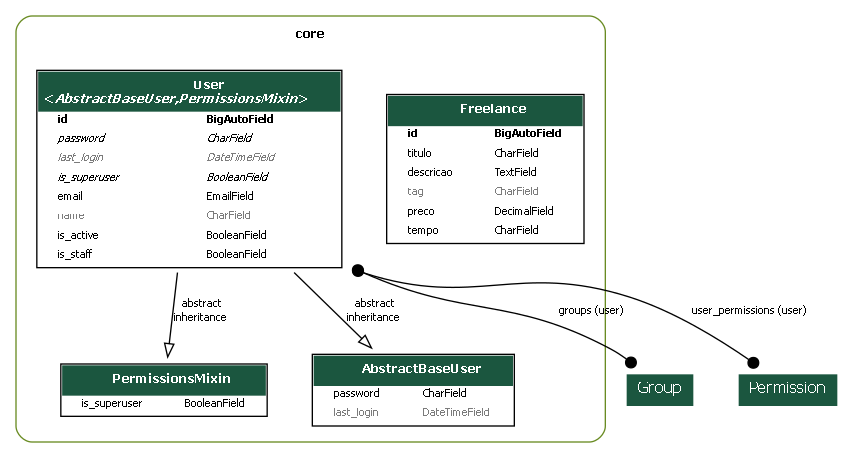
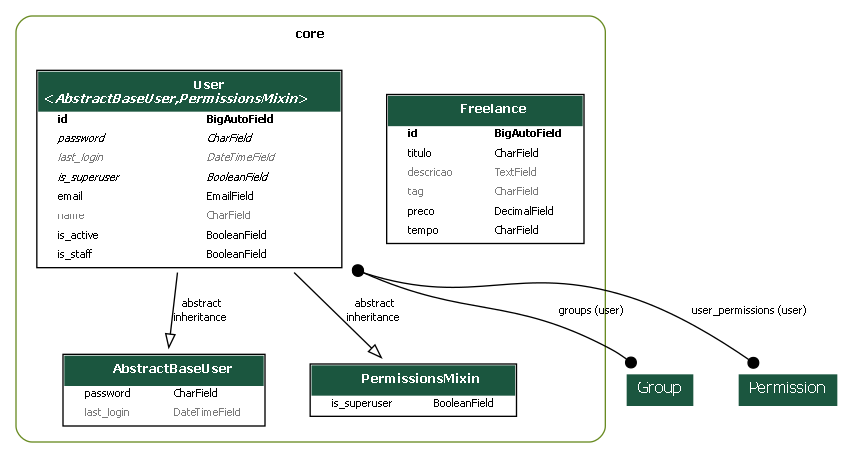
FEAT: criar conta empresa backend

Changed region(s): [[0.061, 0.7336, 0.6096, 0.9476], [0.5791, 0.3668, 0.6401, 0.3974], [0.4877, 0.3668, 0.5182, 0.3974]]

diff --git a/core/migrations/0008_alter_freelance_descricao.py b/core/migrations/0008_alter_freelance_descricao.py
@@ -1,0 +1,18 @@
+# Generated by Django 5.2.12 on 2026-06-06 19:46
+
+from django.db import migrations, models
+
+
+class Migration(migrations.Migration):
+
+    dependencies = [
+        ('core', '0007_alter_freelance_tag'),
+    ]
+
+    operations = [
+        migrations.AlterField(
+            model_name='freelance',
+            name='descricao',
+            field=models.TextField(blank=True, max_length=200, null=True),
+        ),
+    ]

diff --git a/core/views/company.py b/core/views/company.py
@@ -1,0 +1,18 @@
+from django.contrib.auth.models import Group
+from rest_framework.generics import CreateAPIView
+from rest_framework.permissions import AllowAny
+
+from core.models import User
+from core.serializers.company import CompanyRegistrationSerializer
+
+
+class CompanyRegistrationView(CreateAPIView):
+    queryset = User.objects.all()
+    serializer_class = CompanyRegistrationSerializer
+    permission_classes = [AllowAny]
+
+    def perform_create(self, serializer):
+        user = serializer.save()
+
+        grupo, _ = Group.objects.get_or_create(name='Empresa')
+        user.groups.add(grupo)

diff --git a/core/serializers/company.py b/core/serializers/company.py
@@ -1,0 +1,13 @@
+from rest_framework import serializers
+from core.models import User
+
+
+class CompanyRegistrationSerializer(serializers.ModelSerializer):
+    password = serializers.CharField(write_only=True)
+
+    class Meta:
+        model = User
+        fields = ['email', 'name', 'password']  
+
+    def create(self, validated_data):
+        return User.objects.create_user(**validated_data)

diff --git a/core/views/user.py b/core/views/user.py
@@ -8,6 +8,7 @@ from rest_framework.viewsets import ModelViewSet
 
 from core.models import User
 from core.serializers import UserRegistrationSerializer, UserSerializer
+from django.contrib.auth.models import Group
 
 
 class UserViewSet(ModelViewSet):
@@ -34,3 +35,9 @@ class UserRegistrationView(CreateAPIView):
     queryset = User.objects.all()
     serializer_class = UserRegistrationSerializer
     permission_classes = [AllowAny]
+
+    def perform_create(self, serializer):
+        user = serializer.save()
+
+        grupo, _ = Group.objects.get_or_create(name='Usuario')
+        user.groups.add(grupo)

diff --git a/app/urls.py b/app/urls.py
@@ -12,7 +12,7 @@ from rest_framework_simplejwt.views import (
     TokenVerifyView,
 )
 
-from core.views import UserRegistrationView, UserViewSet, FreelanceViewSet
+from core.views import UserRegistrationView, UserViewSet, FreelanceViewSet, CompanyRegistrationView
 
 router = DefaultRouter()
 
@@ -37,9 +37,9 @@ urlpatterns = [
     path('api/token/', TokenObtainPairView.as_view(), name='token_obtain_pair'),
     path('api/token/refresh/', TokenRefreshView.as_view(), name='token_refresh'),
     path('api/token/verify/', TokenVerifyView.as_view(), name='token_verify'),
-    # Registro de usuários
+    
     path('api/registro/', UserRegistrationView.as_view(), name='user_registration'),
-    # API
+    path('api/registro/empresa/', CompanyRegistrationView.as_view()),
     path('api/', include(router.urls)),
 
 ]

diff --git a/core/serializers/__init__.py b/core/serializers/__init__.py
@@ -1,3 +1,4 @@
 from .user import UserRegistrationSerializer, UserSerializer
 
 from .freelance import FreelanceSerializer
+from .company import CompanyRegistrationSerializer

diff --git a/core/views/__init__.py b/core/views/__init__.py
@@ -1,3 +1,4 @@
 from .user import UserRegistrationView, UserViewSet
 
 from .freelance import FreelanceViewSet 
+from .company import CompanyRegistrationView